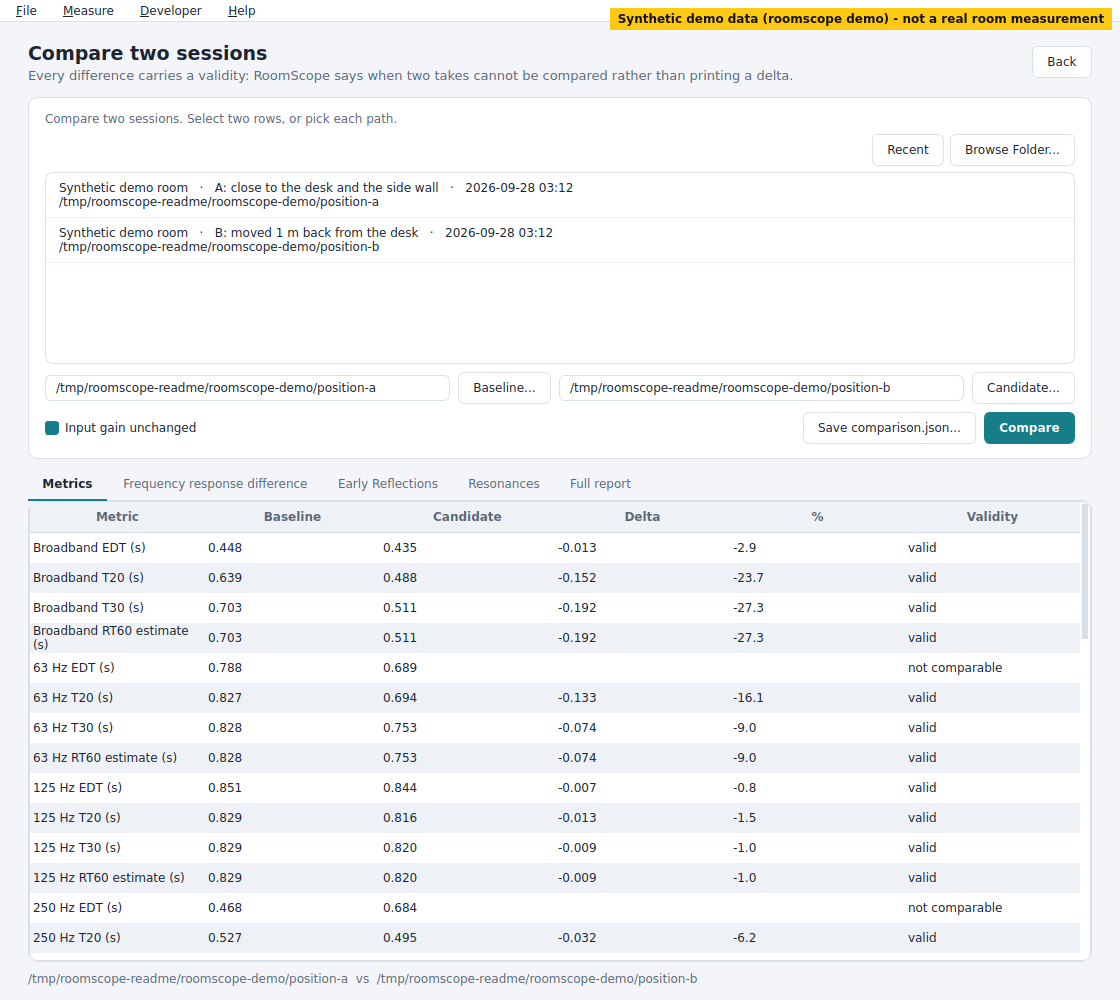
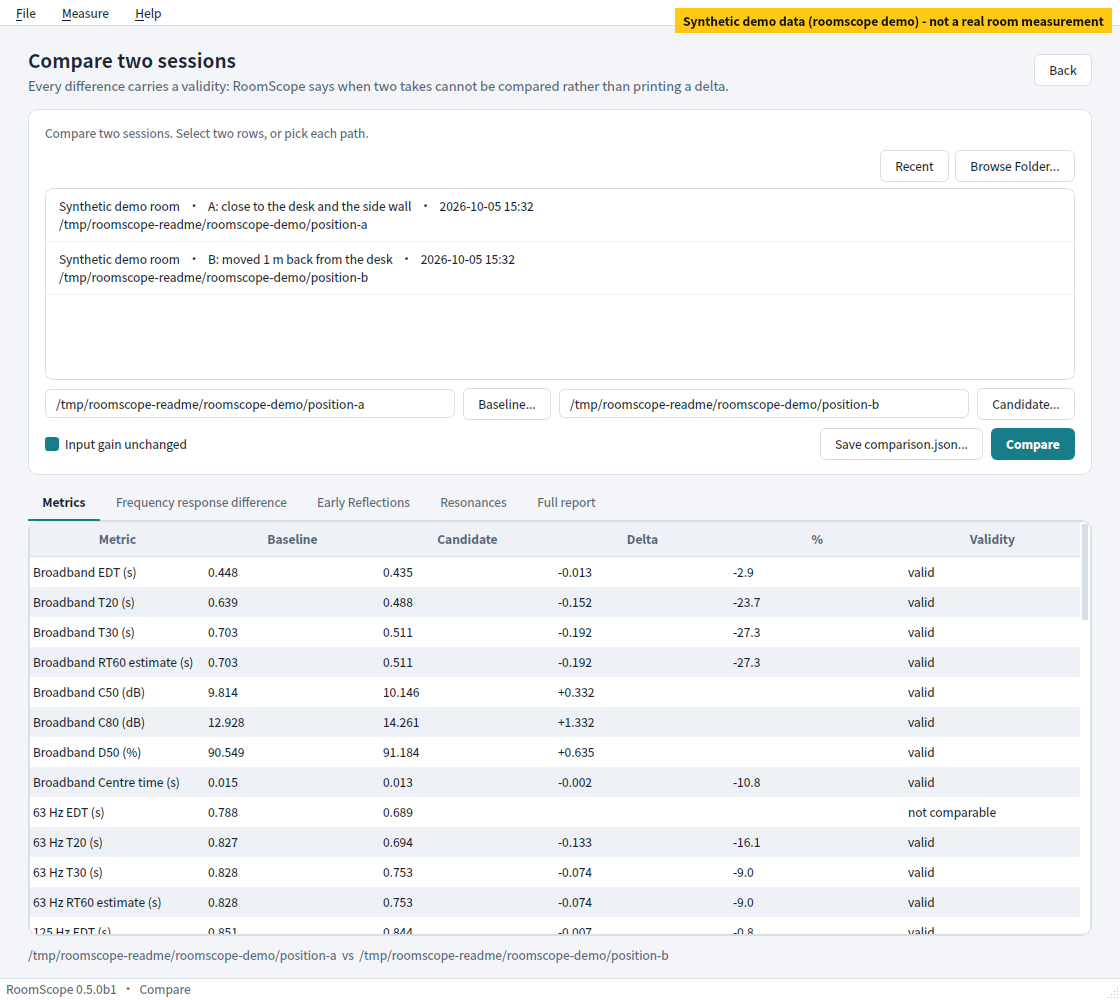
Show the current demo and the downloaded app in the README images
docs/images was last rendered before 0.5.0b1: the terminal screenshots
that the READMEs present as the output of `reverbscope demo` had no
Clarity rows, and the results page lacked the "Copy report" button and
the status bar. The images are rendered again.

The render script also showed the developer edition's Developer menu,
which no downloaded app has, and README.zh-CN.md showed the English
window. It now renders the user edition and a Chinese results page,
gui-results.zh-CN.png, which the Chinese README shows. Each language
runs the demo in its own folder and home: the demo writes its room and
position names in the active language, so the English window had shown
the names the Chinese run wrote last, and the Compare page listed both
runs' sessions.

A test compares the text of both cli-demo SVGs with the demo's golden
output, so the next change to the demo output also asks for new images.

Claude-Session: https://claude.ai/code/session_01EWUXx2eUbgYTNx9Lyb1kYG

diff --git a/scripts/render_readme_assets.py b/scripts/render_readme_assets.py
@@ -7,13 +7,15 @@ Writes:
 * ``cli-demo.svg``            -- ``reverbscope demo`` as a terminal screenshot (SVG text)
 * ``cli-demo.zh-CN.svg``      -- the same in Simplified Chinese
 * ``gui-results.png``         -- Results page, Overview tab, position A
+* ``gui-results.zh-CN.png``   -- the same in Simplified Chinese (README.zh-CN.md)
 * ``gui-frequency-response.png`` -- Results page, Frequency Response tab, position A
 * ``gui-compare.png``         -- Compare page, A -> B
 * ``social-preview.png``      -- 1280x640 card for the GitHub social preview
 
 Every image comes from ``reverbscope demo``: a simulated room, not a measurement.
 The GUI images carry a "Synthetic demo data" stamp so they stay labelled when
-they are shared out of context. Needs the ``gui`` extra.
+they are shared out of context, and show the user edition, as the downloaded
+app does (no Developer menu). Needs the ``gui`` extra.
 """
 
 from __future__ import annotations
@@ -31,6 +33,7 @@ import unicodedata
 from pathlib import Path
 
 STAMP = "Synthetic demo data (reverbscope demo) - not a real room measurement"
+STAMP_ZH = "合成演示数据（reverbscope demo），不是真实房间的测量"
 TERMINAL_COLUMNS = 80
 _SGR = re.compile(r"\x1b\[([\d;]*)m")
 _COLOURS = {"31": "#f07178", "32": "#a8d982", "33": "#e6c07b", "36": "#6cc4d9"}
@@ -129,17 +132,40 @@ def terminal_svg(command: str, output: str, *, title: str) -> str:
     )
 
 
+def demo_folder(workdir: Path, lang: str) -> Path:
+    """Where ``reverbscope demo`` runs in ``lang``.
+
+    The demo writes the room and position names in the active language, so
+    each language keeps its own sessions: the English window must not show
+    the names the Chinese run wrote. English stays at ``workdir``, whose path
+    the Compare screenshot shows.
+    """
+    return workdir if lang == "en" else workdir / lang
+
+
+def enter_language(workdir: Path, lang: str) -> Path:
+    """Use ``lang``'s demo folder and its own ReverbScope home; return the folder.
+
+    Each language has its own home so its sessions stay out of the other
+    language's recent-session list, which the Compare screenshot shows.
+    """
+    folder = demo_folder(workdir, lang)
+    folder.mkdir(parents=True, exist_ok=True)
+    os.environ["REVERBSCOPE_HOME"] = str(folder / "home")
+    return folder
+
+
 def render_cli(workdir: Path, out: Path) -> None:
     from reverbscope.cli.main import main
     from reverbscope.i18n import activate
 
     previous = Path.cwd()
-    os.chdir(workdir)
     try:
         for lang, name, title in (
             ("en", "cli-demo.svg", "reverbscope demo (synthetic data)"),
             ("zh_CN", "cli-demo.zh-CN.svg", "reverbscope demo（合成数据）"),
         ):
+            os.chdir(enter_language(workdir, lang))
             buffer = io.StringIO()
             with contextlib.redirect_stdout(buffer), contextlib.redirect_stderr(io.StringIO()):
                 code = main(["--lang", lang, "--color", "always", "demo"])
@@ -153,7 +179,7 @@ def render_cli(workdir: Path, out: Path) -> None:
         os.chdir(previous)
 
 
-def _stamp(pixmap: object) -> object:
+def _stamp(pixmap: object, stamp: str = STAMP) -> object:
     from PySide6.QtCore import QRect, Qt
     from PySide6.QtGui import QColor, QFont, QPainter
 
@@ -163,49 +189,65 @@ def _stamp(pixmap: object) -> object:
     font.setBold(True)
     painter.setFont(font)
     metrics = painter.fontMetrics()
-    text_w = metrics.horizontalAdvance(STAMP) + 16
+    text_w = metrics.horizontalAdvance(stamp) + 16
     text_h = metrics.height() + 8
     rect = QRect(pixmap.width() - text_w - 8, 8, text_w, text_h)  # type: ignore[attr-defined]
     painter.fillRect(rect, QColor(255, 196, 0, 235))
     painter.setPen(QColor(20, 20, 20))
-    painter.drawText(rect, Qt.AlignmentFlag.AlignCenter, STAMP)
+    painter.drawText(rect, Qt.AlignmentFlag.AlignCenter, stamp)
     painter.end()
     return pixmap
 
 
 def render_gui(workdir: Path, out: Path) -> None:
     os.environ.setdefault("QT_QPA_PLATFORM", "offscreen")
+    # The downloaded app is the user edition; a source checkout would show the
+    # Developer menu, which no reader of the README has.
+    os.environ["REVERBSCOPE_EDITION"] = "user"
     from PySide6.QtWidgets import QApplication
 
     from reverbscope.i18n import activate
-    from reverbscope.ui.main_window import MainWindow
+    from reverbscope.ui import main_window
     from reverbscope.ui.theme import apply_application_chrome
 
-    activate("en")
     app = QApplication.instance() or QApplication(sys.argv[:1])
     apply_application_chrome(app)  # type: ignore[arg-type]
-    window = MainWindow()
-    window.resize(1120, 820)
-    window.show()
-    demo = workdir / "reverbscope-demo"
+    demo = demo_folder(workdir, "en") / "reverbscope-demo"
 
-    def grab(name: str) -> None:
+    def window_in(lang: str) -> main_window.MainWindow:
+        # The window reads the language while it is built.
+        enter_language(workdir, lang)
+        activate(lang)
+        window = main_window.MainWindow()
+        window.resize(1120, 820)
+        window.show()
+        window.open_session_path(demo_folder(workdir, lang) / "reverbscope-demo" / "position-a")
+        window.results.tabs.setCurrentIndex(0)
+        return window
+
+    def grab(window: main_window.MainWindow, name: str, stamp: str = STAMP) -> None:
         for _ in range(5):
             app.processEvents()
-        _stamp(window.grab()).save(str(out / name))  # type: ignore[attr-defined]
+        _stamp(window.grab(), stamp).save(str(out / name))  # type: ignore[attr-defined]
 
-    window.open_session_path(demo / "position-a")
-    window.results.tabs.setCurrentIndex(0)
-    grab("gui-results.png")
-    window.results.tabs.setCurrentWidget(window.results.fr_tab)
-    grab("gui-frequency-response.png")
-    window.resize(1120, 1000)
-    window.show_compare()
-    window.compare.set_paths(demo / "position-a", demo / "position-b")
-    window.compare.same_gain.setChecked(True)
-    window.compare.run_compare()
-    grab("gui-compare.png")
-    window.close()
+    try:
+        window = window_in("en")
+        grab(window, "gui-results.png")
+        window.results.tabs.setCurrentWidget(window.results.fr_tab)
+        grab(window, "gui-frequency-response.png")
+        window.resize(1120, 1000)
+        window.show_compare()
+        window.compare.set_paths(demo / "position-a", demo / "position-b")
+        window.compare.same_gain.setChecked(True)
+        window.compare.run_compare()
+        grab(window, "gui-compare.png")
+        window.close()
+        # README.zh-CN.md shows the results page as a Chinese reader sees it.
+        window = window_in("zh_CN")
+        grab(window, "gui-results.zh-CN.png", STAMP_ZH)
+        window.close()
+    finally:
+        activate("en")
 
 
 def render_social_preview(out: Path) -> None:

diff --git a/tests/ui/test_readme_assets.py b/tests/ui/test_readme_assets.py
@@ -1,0 +1,98 @@
+"""scripts/render_readme_assets.py shows the README reader the app they download."""
+
+from __future__ import annotations
+
+import importlib.util
+import os
+import sys
+from pathlib import Path
+from typing import Any
+
+import pytest
+
+pytest.importorskip("PySide6")
+os.environ.setdefault("QT_QPA_PLATFORM", "offscreen")
+
+from PySide6.QtWidgets import QApplication
+
+pytestmark = [pytest.mark.gui, pytest.mark.slow]
+
+ROOT = Path(__file__).resolve().parents[2]
+
+
+def _script() -> Any:
+    path = ROOT / "scripts" / "render_readme_assets.py"
+    spec = importlib.util.spec_from_file_location("render_readme_assets", path)
+    assert spec is not None and spec.loader is not None
+    module = importlib.util.module_from_spec(spec)
+    sys.modules[spec.name] = module
+    spec.loader.exec_module(module)
+    return module
+
+
+def test_gui_screenshots_are_the_user_edition_and_chinese_for_the_chinese_readme(
+    tmp_path: Path, monkeypatch: pytest.MonkeyPatch
+) -> None:
+    """The screenshots showed the Developer menu, which the downloaded app does
+    not have, and README.zh-CN.md showed the English window. The English
+    window must also show the English demo's names, not those the Chinese
+    demo run wrote last."""
+    from reverbscope.demo import run_demo
+    from reverbscope.i18n import activate, current_locale
+    from reverbscope.ui import main_window
+
+    QApplication.instance() or QApplication([])
+    monkeypatch.setenv("REVERBSCOPE_HOME", str(tmp_path / "home"))
+    monkeypatch.setenv("REVERBSCOPE_AUDIO_BACKEND", "fake")
+    # A source checkout is the developer edition; the script must not inherit it.
+    monkeypatch.setenv("REVERBSCOPE_EDITION", "developer")
+    script = _script()
+    try:
+        for lang in ("en", "zh_CN"):
+            activate(lang)
+            run_demo(script.demo_folder(tmp_path, lang) / "reverbscope-demo")
+    finally:
+        activate("en")
+    grabbed: list[tuple[str, bool, str]] = []
+    subtitles: list[str] = []
+    homes: list[str] = []
+
+    class Recorded(main_window.MainWindow):  # type: ignore[misc]
+        def grab(self, *args: Any) -> Any:
+            tab = self.results.tabs.tabText(0)
+            grabbed.append((current_locale(), self.developer_menu is None, tab))
+            subtitles.append(self.results.header.subtitle.text())
+            homes.append(os.environ["REVERBSCOPE_HOME"])
+            return super().grab(*args)
+
+    monkeypatch.setattr(main_window, "MainWindow", Recorded)
+    out = tmp_path / "images"
+    out.mkdir()
+    script.render_gui(tmp_path, out)
+    assert sorted(path.name for path in out.iterdir()) == [
+        "gui-compare.png",
+        "gui-frequency-response.png",
+        "gui-results.png",
+        "gui-results.zh-CN.png",
+    ]
+    assert [(lang, user) for lang, user, _tab in grabbed] == [
+        ("en", True),
+        ("en", True),
+        ("en", True),
+        ("zh_CN", True),
+    ]
+    english_tab, chinese_tab = grabbed[0][2], grabbed[-1][2]
+    assert english_tab != chinese_tab
+    assert not any(char.isascii() and char.isalpha() for char in chinese_tab)
+    assert subtitles[0].startswith("Synthetic demo room")
+    assert subtitles[-1].startswith("合成演示房间")
+    # Each language's sessions stay out of the other's recent list.
+    assert len(set(homes[:3])) == 1 and homes[0] != homes[-1]
+    assert current_locale() == "en"
+
+
+def test_the_chinese_readme_shows_the_chinese_window() -> None:
+    readme = (ROOT / "README.zh-CN.md").read_text(encoding="utf-8")
+    assert "(docs/images/gui-results.zh-CN.png)" in readme
+    assert "截图为英文界面" not in readme
+    assert (ROOT / "docs" / "images" / "gui-results.zh-CN.png").is_file()

diff --git a/tests/unit/test_cli_ux.py b/tests/unit/test_cli_ux.py
@@ -215,6 +215,36 @@ def test_golden_demo(
     _golden(f"demo-{lang}-{columns}", _normalise(out))
 
 
+_SVG_ROW = re.compile(r'<text x="[^"]*" y="[^"]*" xml:space="preserve">(.*?)</text>')
+
+
+@pytest.mark.parametrize(
+    ("svg", "lang", "command"),
+    [
+        ("cli-demo.svg", "en", "reverbscope demo"),
+        ("cli-demo.zh-CN.svg", "zh_CN", "reverbscope --lang zh_CN demo"),
+    ],
+)
+def test_readme_demo_screenshots_show_what_the_demo_prints(
+    svg: str, lang: str, command: str
+) -> None:
+    """README.md and README.zh-CN.md present these SVGs as the output of
+    ``reverbscope demo``; they still lacked the Clarity rows of 0.5.0b1. When
+    the demo golden changes, run ``python scripts/render_readme_assets.py``
+    (``--cli-only`` is enough here) and commit docs/images with the change."""
+    import html
+
+    path = Path(__file__).resolve().parents[2] / "docs" / "images" / svg
+    rows = [
+        html.unescape(re.sub(r"<[^>]+>", "", row))
+        for row in _SVG_ROW.findall(path.read_text(encoding="utf-8"))
+    ]
+    assert rows[0] == f"$ {command}"
+    expected = (GOLDEN / f"demo-{lang}-80.txt").read_text(encoding="utf-8")
+    shown = _normalise("\n".join(rows[1:]) + "\n")
+    assert shown == expected, f"docs/images/{svg} is out of date: rerun render_readme_assets.py"
+
+
 @pytest.mark.parametrize("lang", ["en", "zh_CN"])
 @pytest.mark.parametrize("columns", [80, 60])
 def test_golden_sweep_next_steps(

diff --git a/docs/SCREENSHOT_PLAN.md b/docs/SCREENSHOT_PLAN.md
@@ -18,8 +18,12 @@ so your recent-session list is untouched), captures the CLI output with
 `--color always` at 80 columns in English and Chinese (each run of Chinese
 characters is placed at its terminal column, so the columns after it line up
 in any font), and grabs the Qt window offscreen. `--cli-only` skips the GUI. On Linux it needs the Qt system
-libraries listed in CONTRIBUTING.md. Rerun it after any change to the report
-wording or the GUI layout, and commit the new images with that change.
+libraries listed in CONTRIBUTING.md. Each language runs the demo in its own
+folder, so every screenshot shows room and position names in its language.
+The window is the user edition, as in the downloads (no Developer menu).
+Rerun it after any change to the report wording or the GUI layout, and
+commit the new images with that change; `tests/unit/test_cli_ux.py` fails
+when the two `cli-demo` SVGs no longer match the demo's golden output.
 
 ## What exists
 
@@ -27,7 +31,8 @@ wording or the GUI layout, and commit the new images with that change.
 | --- | --- | --- | --- |
 | `docs/images/cli-demo.svg` | 80 columns | `reverbscope demo` (colour on) | README, "Command line" |
 | `docs/images/cli-demo.zh-CN.svg` | 80 columns | `reverbscope --lang zh_CN demo` | README.zh-CN, "命令行" |
-| `docs/images/gui-results.png` | 1120×820 | `reverbscope gui` → open `reverbscope-demo/position-a` → Overview | social preview; available for the README |
+| `docs/images/gui-results.png` | 1120×820 | `reverbscope gui` → open `reverbscope-demo/position-a` → Overview | README, social preview |
+| `docs/images/gui-results.zh-CN.png` | 1120×820 | the same in Simplified Chinese (`reverbscope --lang zh_CN gui`) | README.zh-CN |
 | `docs/images/gui-compare.png` | 1120×1000 | Compare page, A → B, "Input gain unchanged" ticked | available for the README |
 | `docs/images/gui-frequency-response.png` | 1120×820 | Results → Frequency Response tab, position A | available for the README |
 | `docs/images/social-preview.png` | 1280×640 | Composed from `gui-results.png` | GitHub Settings → Social preview |

diff --git a/README.zh-CN.md b/README.zh-CN.md
@@ -10,9 +10,9 @@
 [![CI](https://github.com/jingyemingyue/ReverbScope/actions/workflows/ci.yml/badge.svg)](https://github.com/jingyemingyue/ReverbScope/actions/workflows/ci.yml)
 [![License](https://img.shields.io/badge/license-Apache--2.0-blue.svg)](LICENSE)
 
-![ReverbScope 结果页：一个话筒位置的混响、带市电哼声的本底噪声、早期反射和直达声，下方是解读（合成演示数据）](docs/images/gui-results.png)
+![ReverbScope 结果页：一个话筒位置的混响、带市电哼声的本底噪声、早期反射和直达声，下方是解读（合成演示数据）](docs/images/gui-results.zh-CN.png)
 
-<sub>内置演示房间的结果页。合成数据：没有测量任何真实房间（截图为英文界面，程序可切换为简体中文）。</sub>
+<sub>内置演示房间的结果页。合成数据：没有测量任何真实房间。</sub>
 
 > 本文是 [README.md](README.md) 的简体中文版本；两者不一致时，以英文版为准。
 
